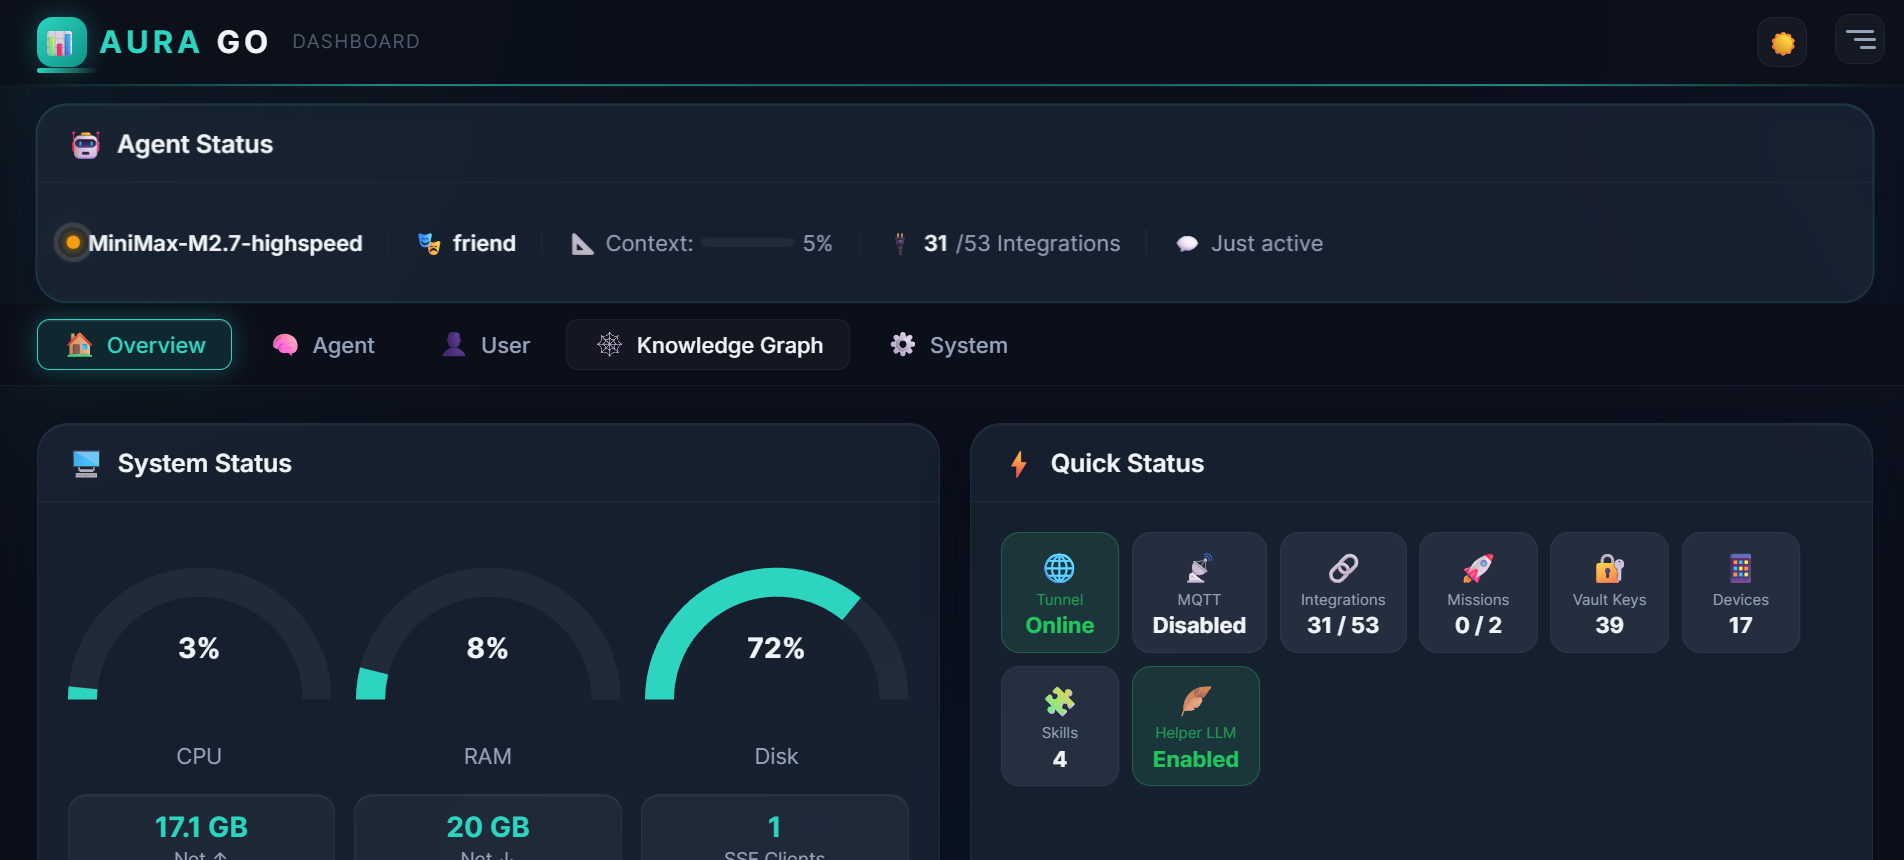
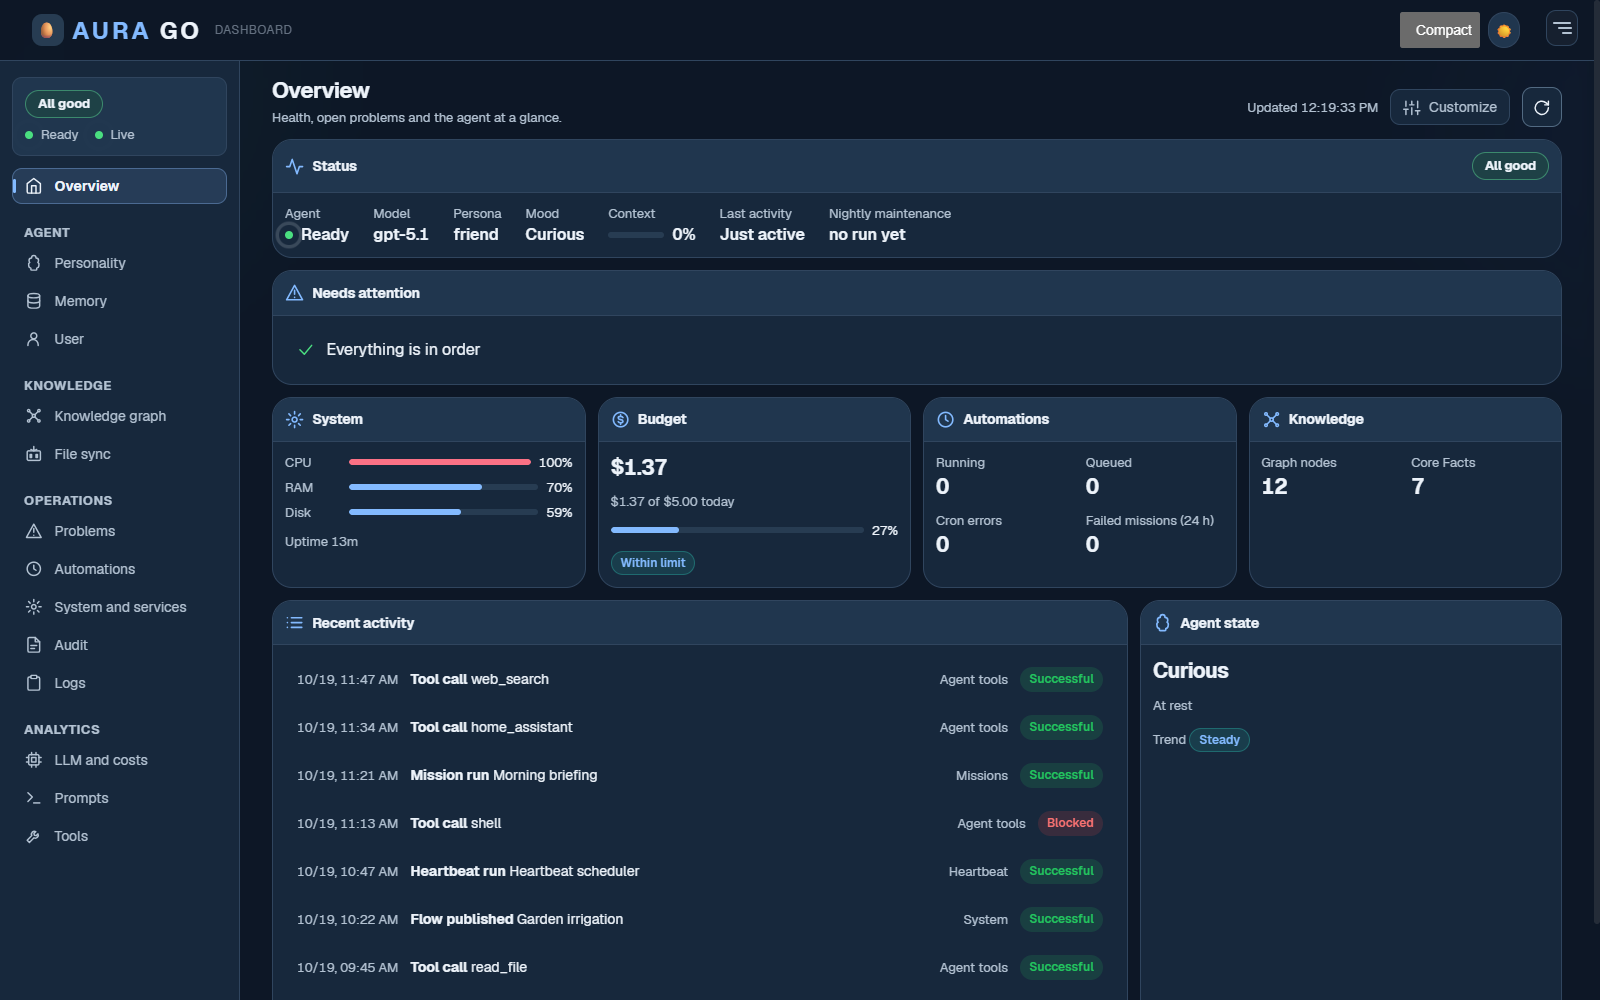
docs(readme): refresh the dashboard and desktop screenshots
Capture the redesigned admin dashboard (sidebar, overview tiles with
status, budget, automations, knowledge and recent activity, compact
density) and the Virtual Desktop (start menu with the category rail,
Gallery, the Winamp-style Music Player, weather and system widgets and a
desktop pet) from a local scratch instance in English at 1600x1000; the
desktop capture is downscaled to 1440x900 to stay under 1.5 MB.

Put the dashboard image back into the README next to the chat screenshot
and describe the new desktop capture in its alt text.

diff --git a/README.md b/README.md
@@ -61,18 +61,18 @@ Your self-hosted AI agent can SSH into your NAS, talk over mesh radio, build a b
 
 ### Yes, there is an actual desktop
 
-[![Real AuraGo Virtual Desktop: app launcher, media gallery, radio and a Winamp-style player](documentation/screenshots/desktop.png)](documentation/screenshots/desktop.png)
+[![Real AuraGo Virtual Desktop: start menu with category rail, media gallery, Winamp-style music player, weather and system widgets and a desktop pet](documentation/screenshots/desktop.png)](documentation/screenshots/desktop.png)
 
 *Real screenshot. The desktop is experimental. Click any image to inspect it at full size.*
 
 <p align="center"><strong>Around 60 desktop apps · 9 start-menu categories · 3 virtual Spaces · screensavers, animated wallpapers and desktop pets</strong></p>
 
 <details>
-<summary>Chat screenshot</summary>
+<summary>Chat and dashboard screenshots</summary>
 
 [![AuraGo chat](documentation/screenshots/chat.png)](documentation/screenshots/chat.png)
 
-The dashboard got a sidebar redesign in October 2026. A fresh screenshot is on the to-do list.
+[![AuraGo admin dashboard with sidebar and overview tiles](documentation/screenshots/dashboard.png)](documentation/screenshots/dashboard.png)
 
 </details>
 
